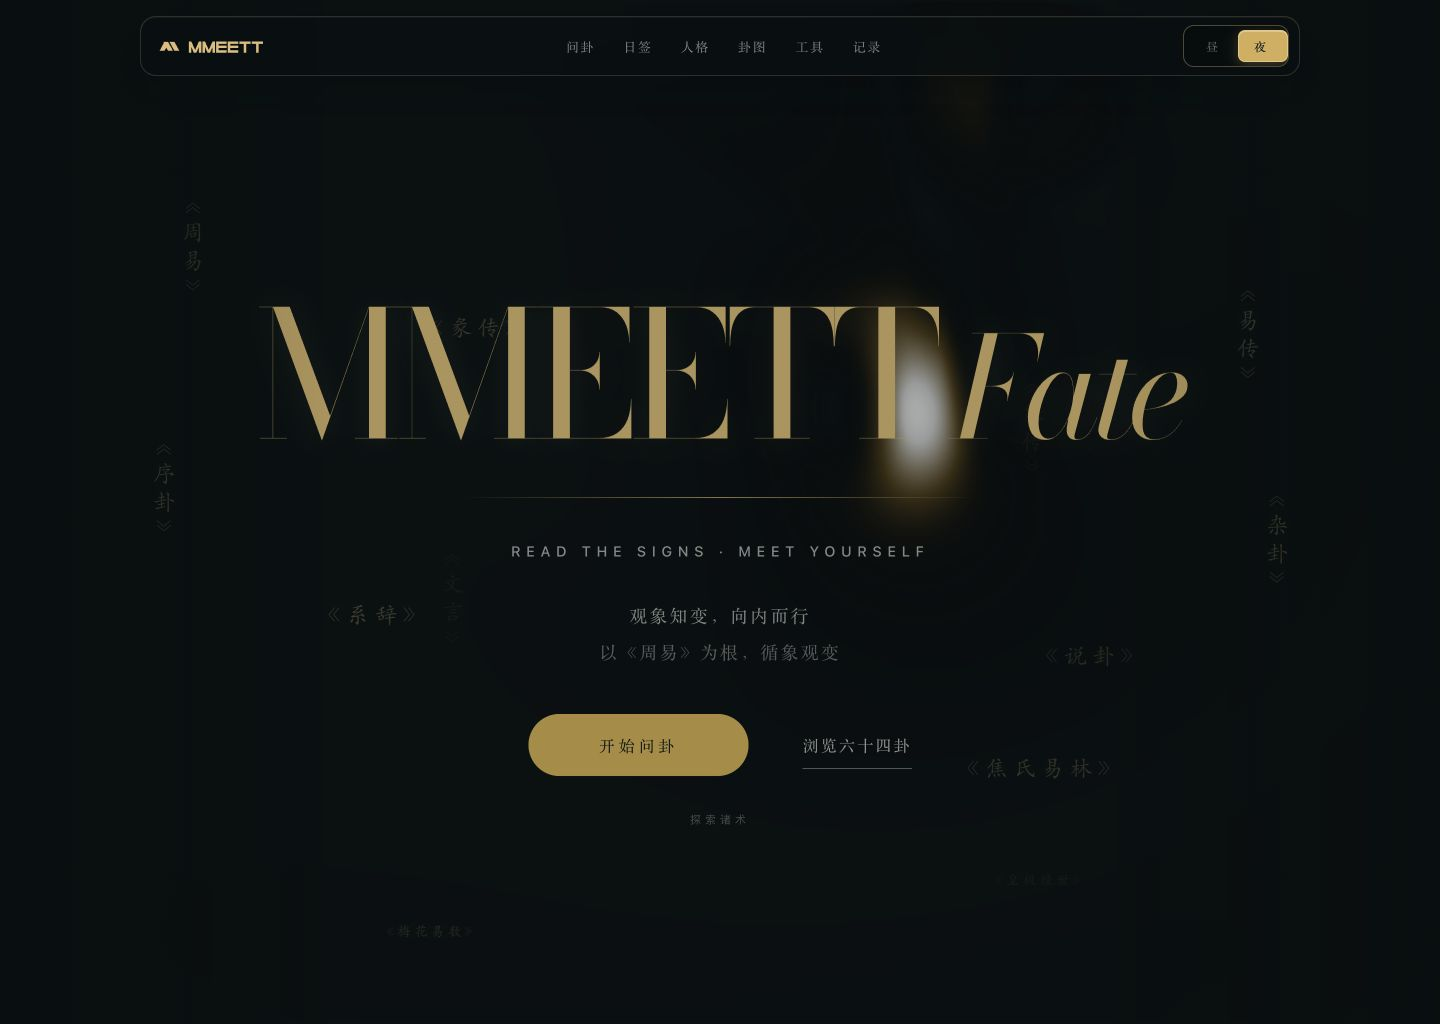
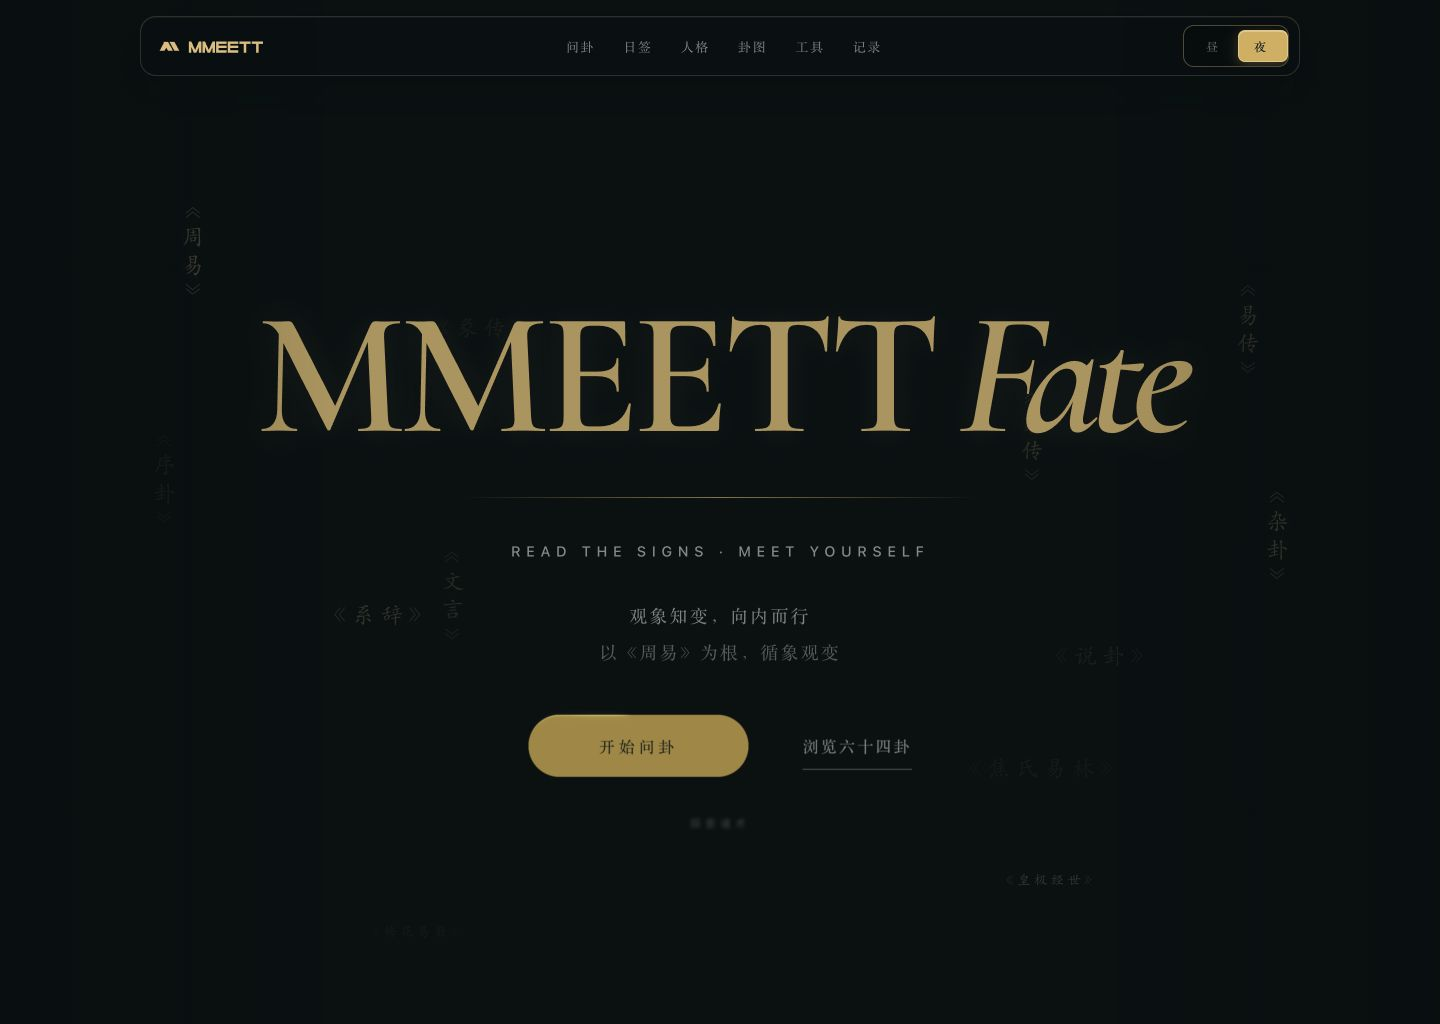
fix: match hero wordmark to design type

Changed region(s): [[0.1875, 0.2812, 0.8438, 0.5], [0.5625, 0.7188, 0.625, 0.75], [0.4375, 0.7188, 0.4688, 0.75]]

diff --git a/src/upgrade.css b/src/upgrade.css
@@ -42,22 +42,6 @@ html[data-dfgx-route="personality"] body {
   min-width: 0;
 }
 
-@font-face {
-  font-family: "MMEETT Fate Bodoni";
-  src: url("/media/fonts/bodoni-moda-mmeett-fate-regular.woff2") format("woff2");
-  font-style: normal;
-  font-weight: 400;
-  font-display: swap;
-}
-
-@font-face {
-  font-family: "MMEETT Fate Bodoni";
-  src: url("/media/fonts/bodoni-moda-mmeett-fate-italic.woff2") format("woff2");
-  font-style: italic;
-  font-weight: 400;
-  font-display: swap;
-}
-
 .dfgx-route-loading {
   min-height: 100svh;
   display: grid;
@@ -497,12 +481,11 @@ html[data-dfgx-theme="day"] .dfgx-classics span {
 .dfgx-editorial h1 {
   margin: 0;
   color: #d8b568;
-  font-family: "MMEETT Fate Bodoni", Didot, Bodoni MT, "Times New Roman", serif;
+  font-family: "Cormorant Garamond", serif;
   font-size: clamp(92px, 12.2vw, 184px);
-  font-weight: 400;
+  font-weight: 600;
   line-height: 0.78;
   letter-spacing: -0.035em;
-  -webkit-text-stroke: 0.45px currentColor;
   text-shadow: 0 2px 28px rgba(239, 218, 157, 0.08);
   white-space: nowrap;
 }
@@ -518,9 +501,9 @@ html[data-dfgx-theme="day"] .dfgx-classics span {
 
 .dfgx-hero-wordmark__fate {
   margin-left: 0.13em;
-  font-size: 0.8em;
+  font-size: 1em;
   font-style: italic;
-  font-weight: 400;
+  font-weight: 600;
   letter-spacing: -0.06em;
 }
 
@@ -1333,12 +1316,11 @@ body,
   .dfgx-editorial h1 {
     font-size: clamp(48px, 17.4vw, 74px);
     letter-spacing: -0.045em;
-    -webkit-text-stroke: 0.3px currentColor;
   }
 
   .dfgx-hero-wordmark__fate {
     margin-left: 0.1em;
-    font-size: 0.76em;
+    font-size: 1em;
   }
 
   .dfgx-wordmark-rule {

diff --git a/src/upgrade-entry.jsx b/src/upgrade-entry.jsx
@@ -2,6 +2,8 @@ import React, { lazy, Suspense, useEffect, useRef, useState } from "react";
 import { createRoot } from "react-dom/client";
 import BorderGlow from "./components/BorderGlow.jsx";
 import BrandLockup, { DEFAULT_DOCUMENT_TITLE } from "./brand-lockup.jsx";
+import "@fontsource/cormorant-garamond/latin-600.css";
+import "@fontsource/cormorant-garamond/latin-600-italic.css";
 import ReadingFlow from "./reading-flow.jsx";
 import OracleToolFlow from "./oracle-tool-flow.jsx";
 import { getDailyCardCopy, getDailyHexagram, formatDailyDate, toLocalIsoDate } from "./daily-hexagram.js";

diff --git a/design-qa.md b/design-qa.md
@@ -21,8 +21,8 @@
 
 已在同一次视觉比较输入中并列打开源字标图与 1440 × 1024 夜间实现截图。重点核对结果：
 
-- `MMEETT` 使用直立高对比 Bodoni 衬线；
-- `Fate` 使用同家族斜体并略小；
+- `MMEETT` 使用设计稿原始的直立高对比 Cormorant Garamond 600 衬线；
+- `Fate` 使用同家族斜体，并与 `MMEETT` 保持相同字号；
 - 两者保持单行，字间关系和参考图一致；
 - 中央不包含中文“东方观星”或重复说明行；
 - 夜间为旧金色，日间为深墨色；
@@ -32,7 +32,7 @@
 
 ## Required fidelity surfaces
 
-- Fonts and typography：通过。两份自托管 Bodoni Moda 子集分别覆盖正体和斜体，浏览器检查 `document.fonts` 状态为 `loaded`；标题 400 字重，不依赖合成粗体，不产生外部字体请求。
+- Fonts and typography：通过。自托管 Cormorant Garamond 600 正体与 600 斜体覆盖标题，浏览器检查 `document.fonts` 状态为 `loaded`；不依赖合成粗体，不产生外部字体请求。
 - Spacing and layout rhythm：通过。桌面标题居中、横向占幅 64.4%，标题至分隔线、英文标语、哲思与 CTA 的既有节奏保留；390px 与 320px 均为单行且无横向溢出。
 - Colors and visual tokens：通过。夜间沿用旧金 `#d8b568`，日间沿用深墨 `#000000`；背景动效与标题对比关系保留。
 - Image quality and asset fidelity：通过。中央目标本质为可访问的文字字标，使用真实字体而非栅格截图；导航官方 SVG 品牌资产未替换。字体 WOFF2 资源已本地化并附 OFL。
@@ -41,7 +41,7 @@
 ## Comparison history
 
 1. 首次实现截图 `v1`：桌面标题宽约 799px，仅占视口 55.5%，相较参考图的大幅字标略显保守，判定为 P2 尺度偏小。
-2. 修复：桌面标题字号从 `clamp(84px, 10.5vw, 164px)` 调整为 `clamp(92px, 12.2vw, 184px)`，并把字体声明和实际标题统一为 400 字重。
+2. 修复：桌面标题字号从 `clamp(84px, 10.5vw, 164px)` 调整为 `clamp(92px, 12.2vw, 184px)`；当前实现保留该尺度，并统一使用设计稿原始的 Cormorant Garamond 600 正体与斜体。
 3. 修复后截图 `v2`：桌面标题宽约 928px，占视口 64.4%；单行、正斜体比例和视觉中心与参考一致。390px、320px 规则不受桌面放大影响，320px 标题右边界 303.37px、页面总宽 320px。
 
 ## Interaction and runtime checks

diff --git a/docs/decisions/2026-07-24-home-hero-mmeett-wordmark.md b/docs/decisions/2026-07-24-home-hero-mmeett-wordmark.md
@@ -5,16 +5,16 @@
 
 ## 范围与原因
 
-`docs/design/hero-mmeett-fate-wordmark-reference-v2.png` 确认为首页 Hero 中央字标的视觉源。该位置改为仅呈现单行 `MMEETT Fate`，用高对比 Bodoni 风格衬线建立首屏主视觉：`MMEETT` 为直立大写，`Fate` 为略小的同家族斜体。移除中央重复的 “Fate” 说明行与中文“东方观星”，避免品牌层级分散。
+`docs/design/hero-mmeett-fate-wordmark-reference-v2.png` 确认为首页 Hero 中央字标的视觉源。该位置改为仅呈现单行 `MMEETT Fate`，使用设计稿原始的 Cormorant Garamond 600 高对比衬线建立首屏主视觉：`MMEETT` 为直立大写，`Fate` 为同字号的同家族 600 斜体。移除中央重复的 “Fate” 说明行与中文“东方观星”，避免品牌层级分散。
 
 导航和二级页仍使用 `src/brand-lockup.jsx` 的官方 MMEETT 图形标/字标，不改变导航识别或共享页眉。
 
 ## 响应式与主题策略
 
-Hero 通过两份自托管 Bodoni Moda 子集字体（正体与斜体）渲染，不产生运行时外部字体请求。桌面字标按约 60–70% 可用视口宽度的比例扩展；移动端使用受容器限制的流式字号，保持单行且不产生横向溢出。既有 staged entrance 与 reduced-motion 回退继续用于标题。
+Hero 通过 `@fontsource/cormorant-garamond` 的自托管 600 正体与 600 斜体渲染，不产生运行时外部字体请求。桌面字标按约 60–70% 可用视口宽度的比例扩展；移动端使用受容器限制的流式字号，保持单行且不产生横向溢出。既有 staged entrance 与 reduced-motion 回退继续用于标题。
 
 昼夜共用同一标题结构和字体：夜间使用旧金色，日间使用深墨色；仅通过共享主题 token 调整对比，LightRays、LiquidEther、文案、CTA 和业务交互不变。
 
 ## 回滚
 
-恢复 `src/upgrade-entry.jsx` 的 Hero `BrandLockup` 渲染及其对应样式，并移除这两份 `@font-face` 与本地 Bodoni 字体资源引用即可。导航和二级页的共享官方字标不受影响。
+恢复 `src/upgrade-entry.jsx` 的 Hero `BrandLockup` 渲染及其对应样式，并移除 Cormorant Garamond 600 字体引入即可。导航和二级页的共享官方字标不受影响。

diff --git a/PROJECT_STATE.md b/PROJECT_STATE.md
@@ -16,7 +16,7 @@
 
 - 当前产品品牌：MMEETT Fate；首页品牌说明为 “Fate”。
 - GitHub 仓库与 Pages 子路径已同步更名为 `mmeett-fate`，仓库地址为 `https://github.com/3352873770-rgb/mmeett-fate`。
-- 首页 Hero 中央使用独立的、自托管 Bodoni Moda 子集渲染的单行 `MMEETT Fate`：`MMEETT` 正体大写、`Fate` 斜体，桌面约占可用视口 60–70%，保留 `READ THE SIGNS · MEET YOURSELF` 与“观象知变，向内而行”及原有昼夜氛围、导航和问卦业务流程。
+- 首页 Hero 中央使用独立的、自托管 Cormorant Garamond 600 设计稿原始字体渲染的单行 `MMEETT Fate`：`MMEETT` 正体大写、`Fate` 600 斜体，桌面约占可用视口 60–70%，保留 `READ THE SIGNS · MEET YOURSELF` 与“观象知变，向内而行”及原有昼夜氛围、导航和问卦业务流程。
 - 导航与二级页品牌字标继续由 `src/brand-lockup.jsx` 提供，使用用户提供 PDF 提取的官方 SVG 路径；首页 Hero 中央字标按 `docs/design/hero-mmeett-fate-wordmark-reference-v2.png` 单独实现，不含中文“东方观星”或重复品牌说明。
 
 ## 已完成
@@ -43,7 +43,7 @@
 - 时辰运势使用可重算的农历年月日时起卦口径；AI 解读报告首期读取真实本地问卦记录，并明确标注为未连接外部模型的结构化解读原型
 - 首页六十四卦图谱使用无横向滚动的静态网格，并可进入昼夜双模式知识二级页
 - 首页与六十四卦知识页的 WebGL 氛围仅在 Banner 可见时挂载，滚出首屏或页面进入后台后自动卸载
-- 首页导航、Hero 与二级页页眉已统一使用用户提供 PDF 的 MMEETT 图形标与自定义字标路径，不再依赖 Cormorant Garamond 模拟品牌字
+- 首页导航与二级页页眉继续使用用户提供 PDF 的 MMEETT 图形标与自定义字标路径；Hero 中央则使用设计稿原始的 Cormorant Garamond 600 文字字标
 - 手机端根页面、问卦/工具按钮区及四个现役二级页已限制横向溢出与回弹；移动按钮的 SpecularButton 横向缓冲收进按钮内部，页面只做纵向滚动，同时保留顶部导航自身的局部横向滚动
 - GitHub Pages 公网发布
 - 根目录唯一源码、长期项目文档与自动质量检查基线

diff --git a/AGENTS.md b/AGENTS.md
@@ -123,4 +123,4 @@ The default completion boundary for each task is local verification plus a draft
 
 ## Hero 中央字标视觉源
 
-- `docs/design/hero-mmeett-fate-wordmark-reference-v2.png` 是当前首页 Hero 中央字标的视觉源。中央仅使用单行 `MMEETT Fate`：高对比衬线、`MMEETT` 正体大写、`Fate` 斜体，不加入中文“东方观星”或额外品牌说明行；导航继续保留官方 MMEETT 图形标/字标。
+- `docs/design/hero-mmeett-fate-wordmark-reference-v2.png` 是当前首页 Hero 中央字标的视觉源。中央仅使用单行 `MMEETT Fate`：设计稿原始的 Cormorant Garamond 600 高对比衬线，`MMEETT` 正体大写、`Fate` 600 斜体，不加入中文“东方观星”或额外品牌说明行；导航继续保留官方 MMEETT 图形标/字标。

diff --git a/CHANGELOG.md b/CHANGELOG.md
@@ -4,7 +4,7 @@
 
 ## Unreleased
 
-- 重构首页 Hero 中央字标为自托管 Bodoni Moda 的单行 `MMEETT Fate`：`MMEETT` 正体大写、`Fate` 斜体，移除重复 “Fate” 说明行与所有中文品牌文字；导航官方 MMEETT 标识、昼夜主题、标语、CTA 与既有交互保持不变。
+- 重构首页 Hero 中央字标为设计稿原始的自托管 Cormorant Garamond 600 单行 `MMEETT Fate`：`MMEETT` 正体大写、`Fate` 600 斜体，移除重复 “Fate” 说明行与所有中文品牌文字；导航官方 MMEETT 标识、昼夜主题、标语、CTA 与既有交互保持不变。
 - 将三枚铜钱二级页的退出目标从首页 `#tools` 锚点改为站点根地址；返回后回到首页顶部，不再让同一网站的 Hash 地址被误解为第二个页面。
 - 修复首页“长期问卦”和“推荐小工具”的重复、错位描边：移除伪元素边框与按钮外扩特效层，仅保留逐按钮单一描边及图标、文案、箭头微交互。
 - 放大首页 Banner 的 MMEETT 官方字标：桌面端解除过低宽度上限并按视口扩大，手机端同步增加上限但保持容器内完整显示。